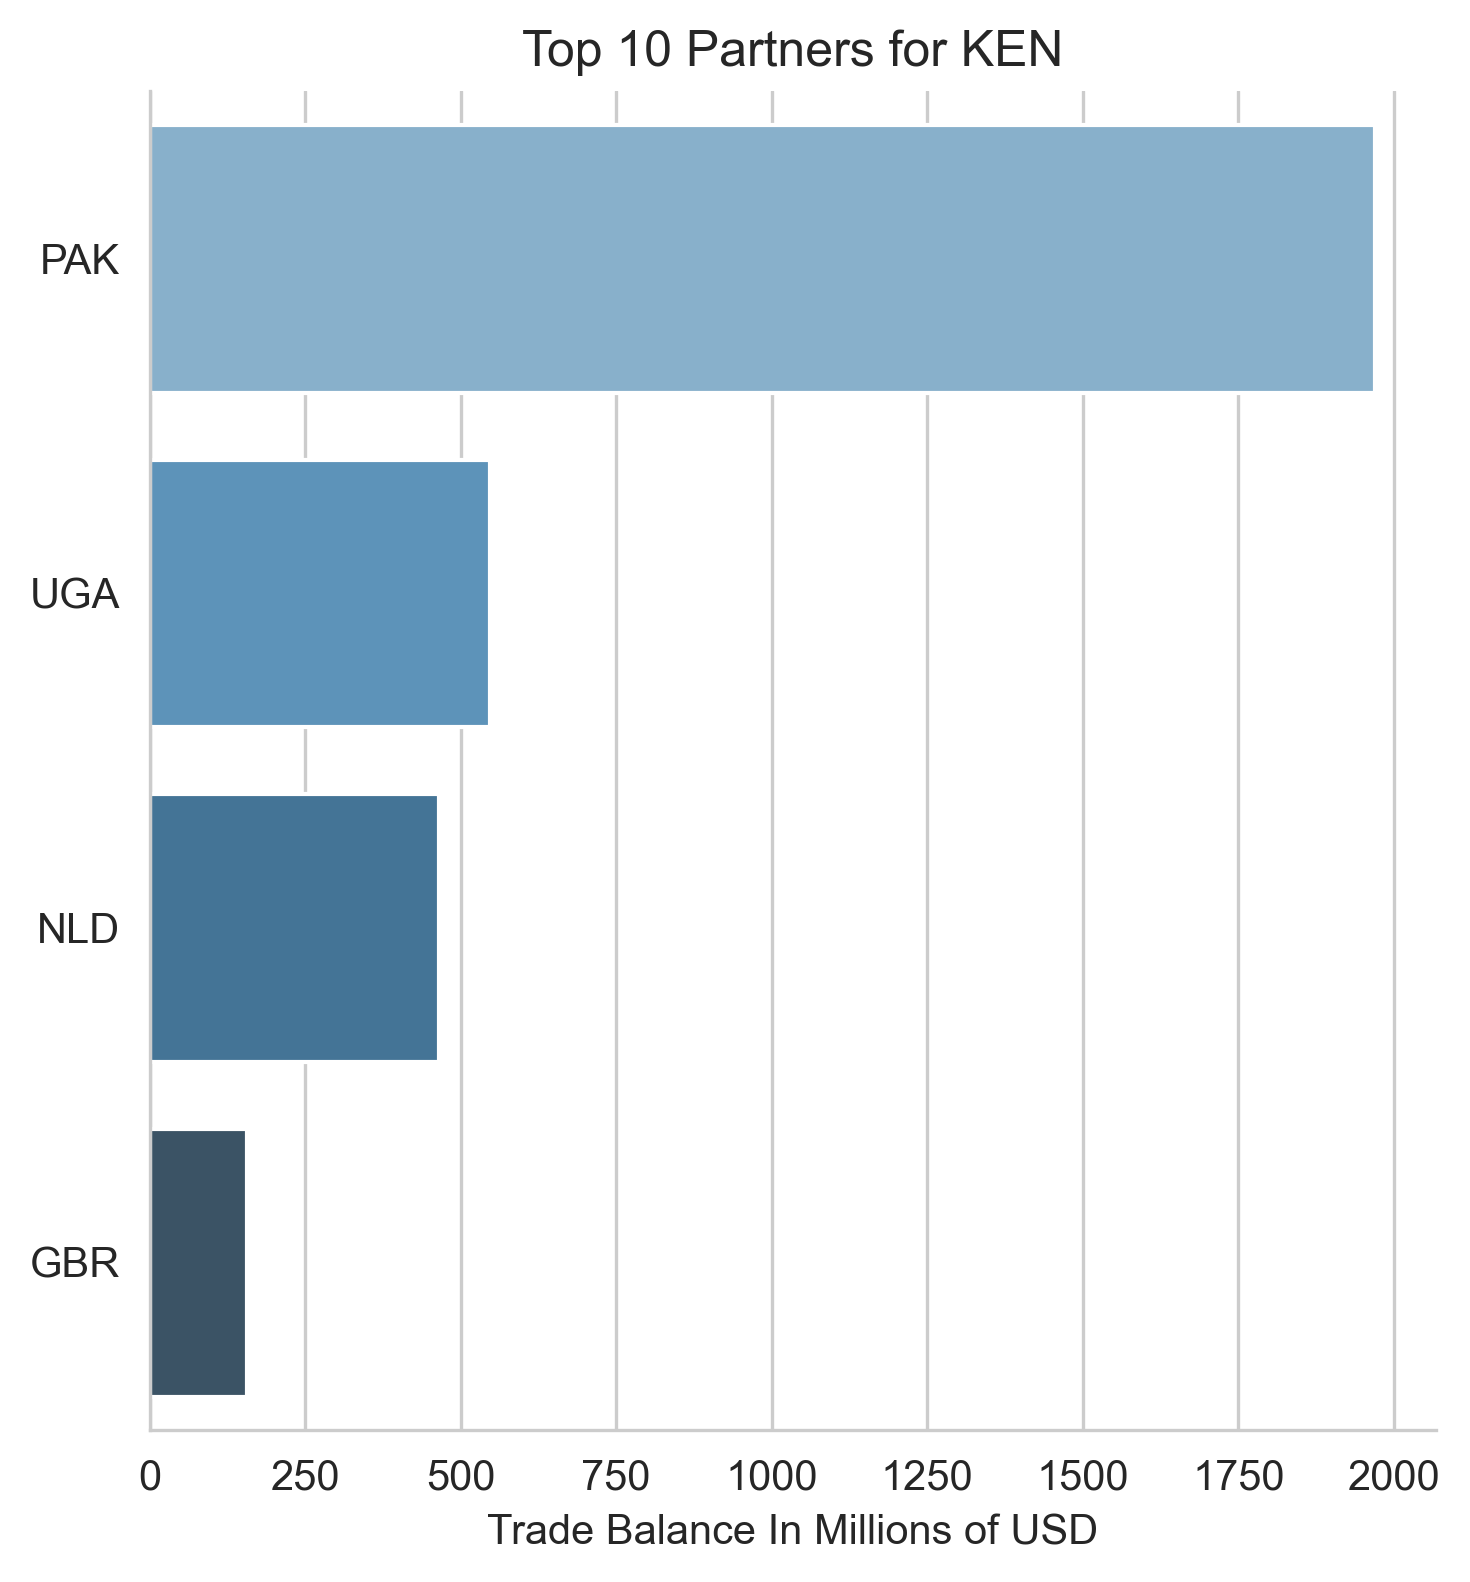
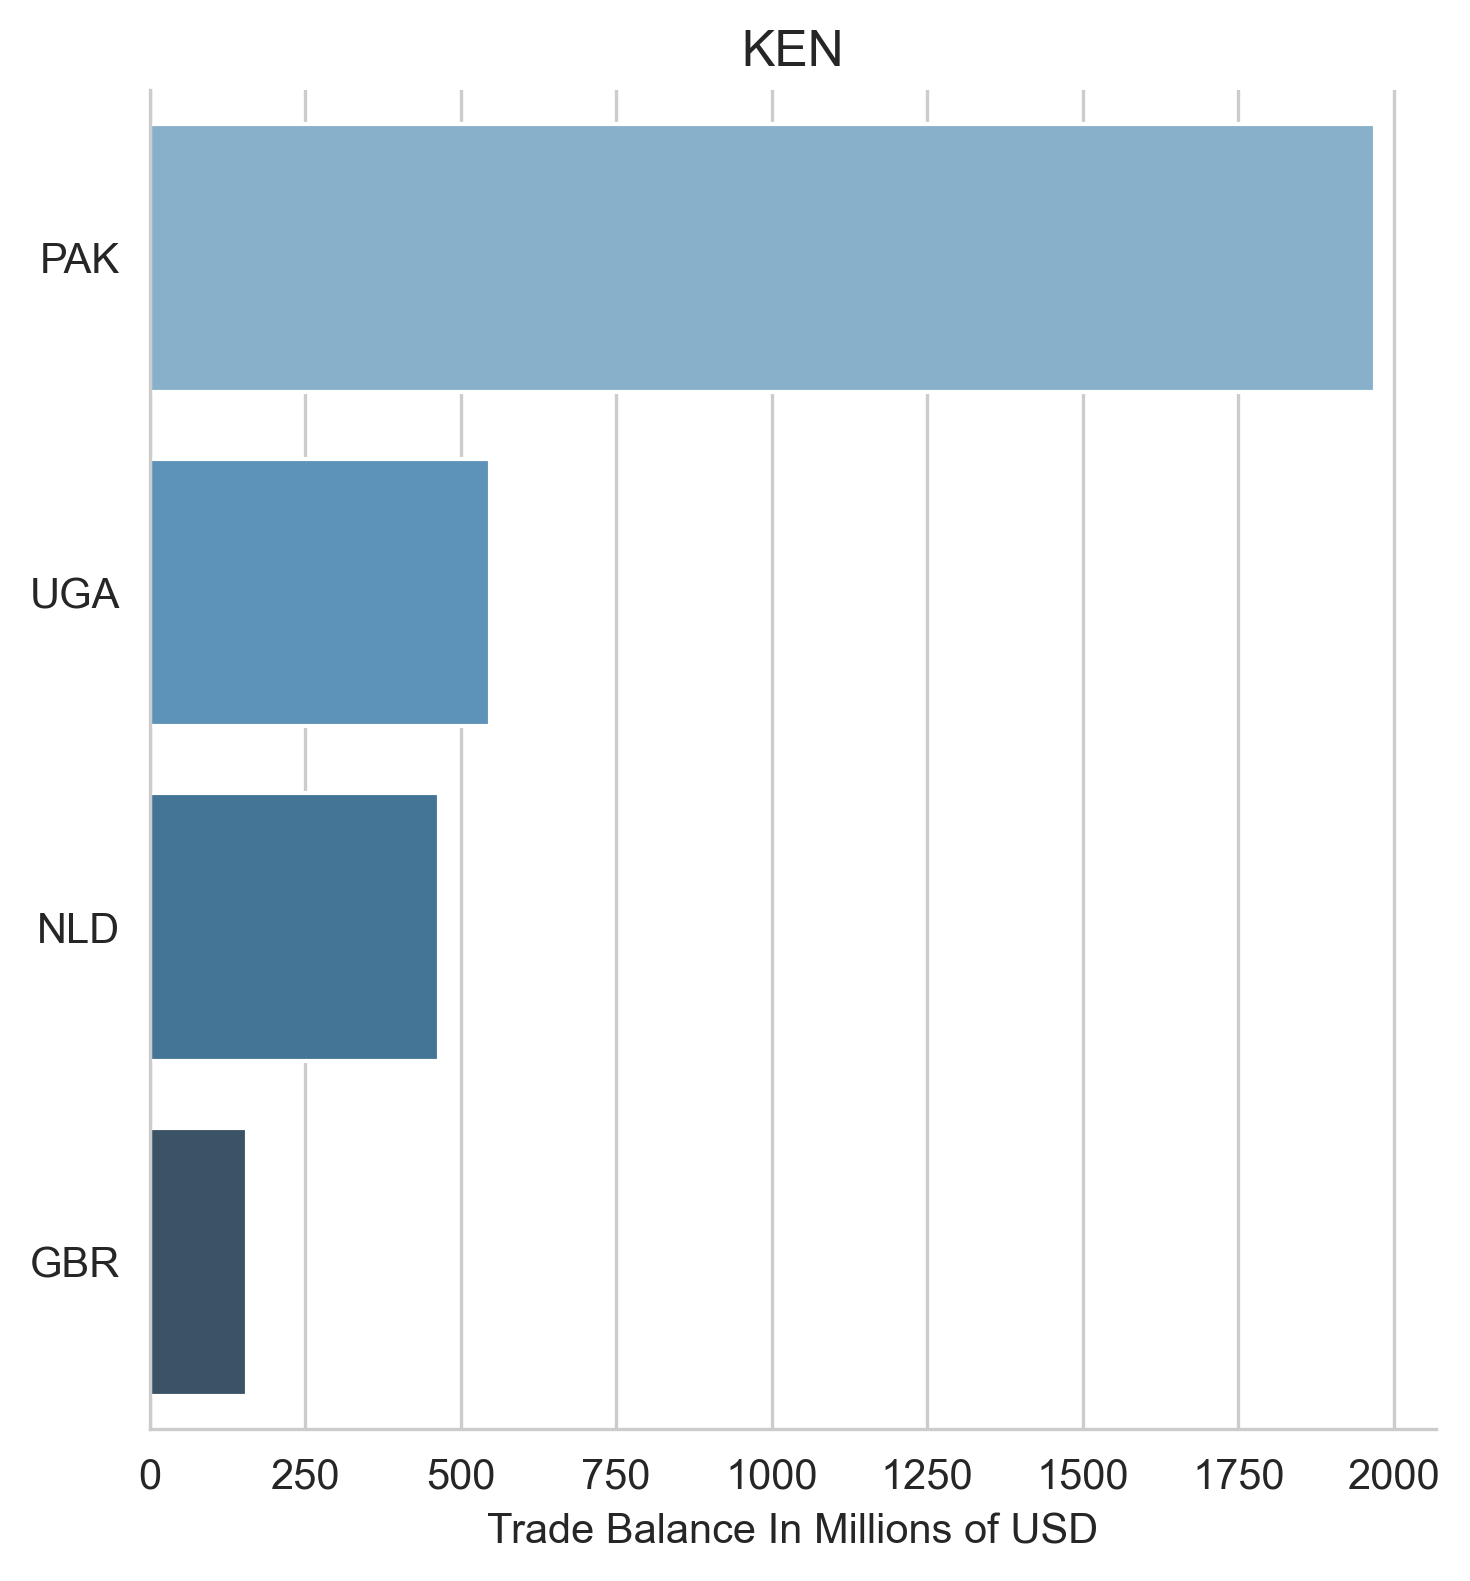
update readme

Changed region(s): [[0.4286, 0.0, 0.7347, 0.062], [0.3673, 0.0, 0.398, 0.062], [0.0306, 0.7748, 0.0612, 0.8058]]

diff --git a/python/explore_energy_generation.py b/python/explore_energy_generation.py
@@ -60,7 +60,7 @@ def plot_top10_partners(df, location_code):
     fig, ax = plt.subplots(figsize=(5, 3))
     sns.set_style("whitegrid")
     sns.factorplot(x='trade_balance_millions', y='partner_code', data=top10.to_pandas(), palette='Blues_d', kind='bar')
-    plt.title('Top 10 Partners for ' + location_code)
+    plt.title(location_code)
     plt.xlabel('Trade Balance In Millions of USD')
     plt.ylabel('')
     plt.savefig('../output/top10partners_' + location_code + '.png', dpi=300, bbox_inches='tight')
@@ -70,6 +70,10 @@ plot_top10_partners(rwa_df, 'RWA')
 plot_top10_partners(uga_df, 'UGA')
 plot_top10_partners(ken_df, 'KEN')
 plot_top10_partners(bdi_df, 'BDI')
+
+# import openai 
+# import os 
+# os.environ["OPENAI_API_KEY"] = ""
 # Plot bar plot andsave plot as png to output folder. Use seaborn for styling
 # fig, ax = plt.subplots(figsize=(10, 6))
 # sns.set_style("whitegrid")
